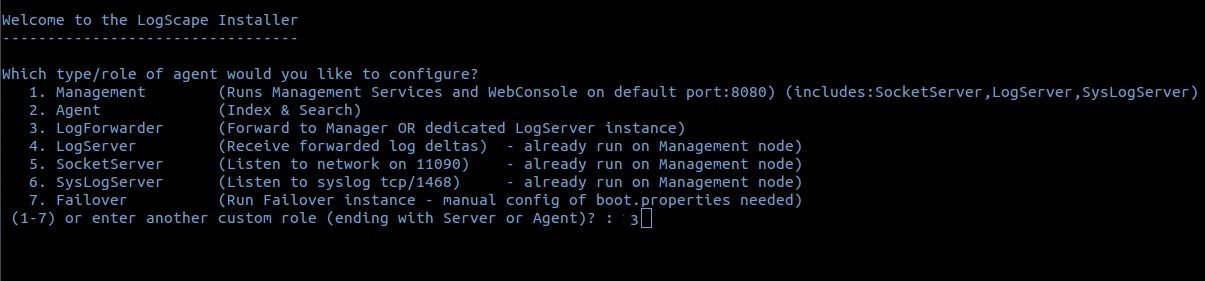
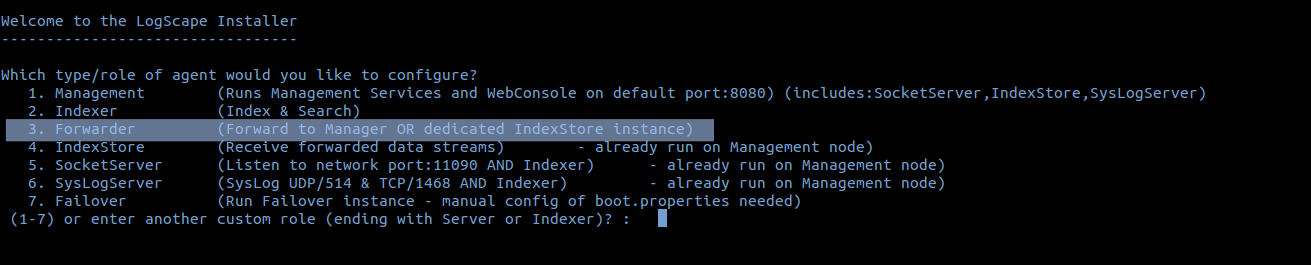
Minor changes

Changed region(s): [[0.0, 0.2415, 1.0, 0.8453], [0.0, 0.0302, 0.2456, 0.1509]]

diff --git a/install-forwarder.html b/install-forwarder.html
@@ -1,4 +1,4 @@
 <!DOCTYPE html><html lang="en"><head><title>	Logscape 2.0 	</title><link href="css/bootstrap.min.css" rel="stylesheet"><link href="css/style.css" rel="stylesheet"><script src="js/bootstrap.min.js"></script><script src="js/jquery.js"></script></head><body><div class="container">		<div class="navbar navbar-fixed-top"><div class="navbar-inner"><div class="nav-collapse collapse"><ul class="nav navbar-nav"><li class="active"> Main Support Site </li><li>Explore Logscape Apps </li><li> <a href="">Download </a></li></ul></div><h3>Logscape 2.0  </h3><a href="apps.html"> Applications   	|</a><a href="http://support.liquidlabs.co.uk"> Older Versions (1.3x)</a></div></div></div><div class="container"><p> </p><p> </p><br><br><br><p> </p><p> </p><div class="row"><div class="col-md-3"><p> 
 Overview </p><ul><li> <a href="index.html">Getting Started</a><ul><li><a href="searching-video.html">Quick Search Video</a></li><li> <a href="workspaces.html">Create a Workspace Video </a></li></ul></li><li> <a href="deploy.html">How to deploy Apps </a></li><li><a href="releasenotes.html">Release Notes </a></li></ul><p> 
 Installation Guide </p><ul><li>	<a href="install-prerequisites.html">Prerequisites</a></li><li> <a href="install-manager.html">Manager Installation</a></li><li> <a href="install-forwarder.html">Install a Forwarder</a></li><li> <a href="install-indexer.html">Install an Indexer		</a></li><li>	<a href="install-updating.html">Updating Logscape </a></li></ul><p>Common Deployment Scenarios</p><ul><li><a href="using-forwarders.html">Using Forwarders </a></li><li><a href="using-indexers.html">Using IndexStores </a></li></ul><p> <a href="apps.html">Logscape Apps</a></p><ul><li> <a href="https://github.com/logscape/windowsapp#windowsapp-10">WindowsApp</a></li><li> <a href="https://github.com/logscape/unixapp#unixapp-10">UnixApp</a></li><li> <a href="https://github.com/logscape/coherenceapp#oraclecoherenceapp-10">Oracle Coherence App</a></li><li> <a href="https://github.com/logscape/unixapp#unixapp-10">JavaApp</a></li><li> <a href="https://github.com/logscape/unixapp#unixapp-10">Syslog Devices </a></li></ul><p> 
-Contact</p><div><strong> <span>email: <a href="#">support@logscape.com</a></span></strong><br><strong><span>twitter: <a href="#">logscape@twitter.com </a></span></strong></div></div><div class="col-md-9"><h1>Install an Forwarder</h1><p><strong>Duration:  </strong>Just under 5 minutes </p><p><strong>Prerequisites:  </strong>Make sure that you have Oracle Java 7 and above and that Java is accessible from your  path</p><div class="alert alert-warning"> <p><A>Forwarder will stream its log data to the Manager or an IndexStore in realtime.  The Manager or IndexStore will index the data locally and prepare it for search and analysis. </A></p><span> <strong>Note: </strong> Do not use OpenJDK. There are known performance problems with this JVM and Logscape may not run as expected. </span></div><ol> <li> <p>	Download Logscape-2.0.zip and unzip </p></li><li> <p>	Navigate to your Logscape installation and inside the scripts folder, type:<div class="image"><img src="images/install_configure.png"></div></p></li><li> <p>	A prompt will appear to configure your installation. Choose option 3) for a Forwarde <div class="image"><img src="images/install_configure_forwarder.png"></div></p></li><li>	<p>	Next you will be asked for the address/hostname of your Manager.  A quick test is executed to check the connectivity between your Indexer and the Manager. <div class="image"><img src="images/configure-2.png"></div></p></li><li> <p>	Once the test is passed you can accept the default configuration for the other parameters by pressing enter. </p></li><li> <p>	Navigate back to the Logscape home directory and type the command below to start the Manager</p><code>logscape $> ./logscape.sh start</code></li></ol></div></div></div></body></html>
+Contact</p><div><strong> <span>email: <a href="#">support@logscape.com</a></span></strong><br><strong><span>twitter: <a href="#">logscape@twitter.com </a></span></strong></div></div><div class="col-md-9"><h1>Install an Forwarder</h1><p><strong>Duration:  </strong>Just under 5 minutes </p><p><strong>Prerequisites:  </strong>Make sure that you have Oracle Java 7 and above and that Java is accessible from your  path</p><div class="alert alert-warning"> <p><A>Forwarder will stream its log data to the Manager or an IndexStore in realtime.  The Manager or IndexStore will index the data locally and prepare it for search and analysis. </A></p><span> <strong>Note: </strong> Do not use OpenJDK. There are known performance problems with this JVM and Logscape may not run as expected. </span></div><ol> <li> <p>	Download Logscape-2.0.zip and unzip </p></li><li> <p>	Navigate to your Logscape installation and inside the scripts folder, type:<div class="image"><img src="images/install_configure.png"></div></p></li><li> <p>	A prompt will appear to configure your installation. Choose option 3) for a Forwarder <div class="image"><img src="images/install_configure_forwarder.png"></div></p></li><li>	<p>	Next you will be asked for the address/hostname of your Manager.  A quick test is executed to check the connectivity between your Indexer and the Manager. <div class="image"><img src="images/configure-2.png"></div></p></li><li> <p>	Once the test is passed you can accept the default configuration for the other parameters by pressing enter. </p></li><li> <p>	Navigate back to the Logscape home directory and type the command below to start the Manager</p><code>logscape $> ./logscape.sh start</code></li></ol></div></div></div></body></html>

diff --git a/install-indexer.html b/install-indexer.html
@@ -1,4 +1,4 @@
 <!DOCTYPE html><html lang="en"><head><title>	Logscape 2.0 	</title><link href="css/bootstrap.min.css" rel="stylesheet"><link href="css/style.css" rel="stylesheet"><script src="js/bootstrap.min.js"></script><script src="js/jquery.js"></script></head><body><div class="container">		<div class="navbar navbar-fixed-top"><div class="navbar-inner"><div class="nav-collapse collapse"><ul class="nav navbar-nav"><li class="active"> Main Support Site </li><li>Explore Logscape Apps </li><li> <a href="">Download </a></li></ul></div><h3>Logscape 2.0  </h3><a href="apps.html"> Applications   	|</a><a href="http://support.liquidlabs.co.uk"> Older Versions (1.3x)</a></div></div></div><div class="container"><p> </p><p> </p><br><br><br><p> </p><p> </p><div class="row"><div class="col-md-3"><p> 
 Overview </p><ul><li> <a href="index.html">Getting Started</a><ul><li><a href="searching-video.html">Quick Search Video</a></li><li> <a href="workspaces.html">Create a Workspace Video </a></li></ul></li><li> <a href="deploy.html">How to deploy Apps </a></li><li><a href="releasenotes.html">Release Notes </a></li></ul><p> 
 Installation Guide </p><ul><li>	<a href="install-prerequisites.html">Prerequisites</a></li><li> <a href="install-manager.html">Manager Installation</a></li><li> <a href="install-forwarder.html">Install a Forwarder</a></li><li> <a href="install-indexer.html">Install an Indexer		</a></li><li>	<a href="install-updating.html">Updating Logscape </a></li></ul><p>Common Deployment Scenarios</p><ul><li><a href="using-forwarders.html">Using Forwarders </a></li><li><a href="using-indexers.html">Using IndexStores </a></li></ul><p> <a href="apps.html">Logscape Apps</a></p><ul><li> <a href="https://github.com/logscape/windowsapp#windowsapp-10">WindowsApp</a></li><li> <a href="https://github.com/logscape/unixapp#unixapp-10">UnixApp</a></li><li> <a href="https://github.com/logscape/coherenceapp#oraclecoherenceapp-10">Oracle Coherence App</a></li><li> <a href="https://github.com/logscape/unixapp#unixapp-10">JavaApp</a></li><li> <a href="https://github.com/logscape/unixapp#unixapp-10">Syslog Devices </a></li></ul><p> 
-Contact</p><div><strong> <span>email: <a href="#">support@logscape.com</a></span></strong><br><strong><span>twitter: <a href="#">logscape@twitter.com </a></span></strong></div></div><div class="col-md-9"><h1>Install an Indexer</h1><p><strong>Duration:  </strong>Just under 5 minutes </p><p><strong>Prerequisites:  </strong>Make sure that you have Oracle Java 7 and above and that Java is accessible from your  path<p> <The>Indexer will index and files that it can access locally. Any changes made to the files is picked up immediately and made available for search and analysis.</The></p></p><div class="alert alert-warning"> <span> <strong>Note: </strong> Do not use OpenJDK. There are known performance problems with this JVM and Logscape may not run as expected. </span></div><ol> <li> <p>	Download Logscape-2.0.zip and unzip </p></li><li> <p>	Navigate to your Logscape installation and inside the scripts folder, type:<div class="image"><img src="images/install_configure.png"></div></p></li><li> <p>	A prompt will appear to configure your installation. Choose option 3) for a Forwarde <div class="image"><img src="images/install_configure_indexer.png"></div></p></li><li>	<p>	Next you will be asked for the address/hostname of your Manager.  A quick test is executed to check the connectivity between your Indexer and the Manager. <div class="image"><img src="images/configure-2.png"></div></p></li><li> <p>	Once the test is passed you can accept the default configuration for the other parameters by pressing enter. </p></li><li> <p>	Navigate back to the Logscape home directory and type the command below to start the Forwarder </p><code>logscape $> ./logscape.sh start</code></li></ol></div></div></div></body></html>
+Contact</p><div><strong> <span>email: <a href="#">support@logscape.com</a></span></strong><br><strong><span>twitter: <a href="#">logscape@twitter.com </a></span></strong></div></div><div class="col-md-9"><h1>Install an Indexer</h1><p><strong>Duration:  </strong>Just under 5 minutes </p><p><strong>Prerequisites:  </strong>Make sure that you have Oracle Java 7 and above and that Java is accessible from your  path<p> <The>Indexer will index and files that it can access locally. Any changes made to the files is picked up immediately and made available for search and analysis.</The></p></p><div class="alert alert-warning"> <span> <strong>Note: </strong> Do not use OpenJDK. There are known performance problems with this JVM and Logscape may not run as expected. </span></div><ol> <li> <p>	Download Logscape-2.0.zip and unzip </p></li><li> <p>	Navigate to your Logscape installation and inside the scripts folder, type:<div class="image"><img src="images/install_configure.png"></div></p></li><li> <p>	A prompt will appear to configure your installation. Choose option 2) for a Indexer<div class="image"><img src="images/install_configure_indexer.png"></div></p></li><li>	<p>	Next you will be asked for the address/hostname of your Manager.  A quick test is executed to check the connectivity between your Indexer and the Manager. <div class="image"><img src="images/configure-2.png"></div></p></li><li> <p>	Once the test is passed you can accept the default configuration for the other parameters by pressing enter. </p></li><li> <p>	Navigate back to the Logscape home directory and type the command below to start the Forwarder </p><code>logscape $> ./logscape.sh start</code></li></ol></div></div></div></body></html>

diff --git a/install-manager.html b/install-manager.html
@@ -2,4 +2,4 @@
 Overview </p><ul><li> <a href="index.html">Getting Started</a><ul><li><a href="searching-video.html">Quick Search Video</a></li><li> <a href="workspaces.html">Create a Workspace Video </a></li></ul></li><li> <a href="deploy.html">How to deploy Apps </a></li><li><a href="releasenotes.html">Release Notes </a></li></ul><p> 
 Installation Guide </p><ul><li>	<a href="install-prerequisites.html">Prerequisites</a></li><li> <a href="install-manager.html">Manager Installation</a></li><li> <a href="install-forwarder.html">Install a Forwarder</a></li><li> <a href="install-indexer.html">Install an Indexer		</a></li><li>	<a href="install-updating.html">Updating Logscape </a></li></ul><p>Common Deployment Scenarios</p><ul><li><a href="using-forwarders.html">Using Forwarders </a></li><li><a href="using-indexers.html">Using IndexStores </a></li></ul><p> <a href="apps.html">Logscape Apps</a></p><ul><li> <a href="https://github.com/logscape/windowsapp#windowsapp-10">WindowsApp</a></li><li> <a href="https://github.com/logscape/unixapp#unixapp-10">UnixApp</a></li><li> <a href="https://github.com/logscape/coherenceapp#oraclecoherenceapp-10">Oracle Coherence App</a></li><li> <a href="https://github.com/logscape/unixapp#unixapp-10">JavaApp</a></li><li> <a href="https://github.com/logscape/unixapp#unixapp-10">Syslog Devices </a></li></ul><p> 
 Contact</p><div><strong> <span>email: <a href="#">support@logscape.com</a></span></strong><br><strong><span>twitter: <a href="#">logscape@twitter.com </a></span></strong></div></div><div class="col-md-9"><h1>Install a Manager</h1><p><strong>Duration:  </strong>Just under 5 minutes </p><p><strong>Prerequisites:  </strong>Make sure that you have Oracle Java 7 and above and that Java is accessible from your  path</p><span>The manager is the main component of Logscape. It runs the searches, coordinates services and manages the Web Dashboard. </span><div class="alert alert-warning"> <span> <strong>Note: 
-Do not use OpenJDK. There are known performance problems with this JVM and Logscape may not run as expected. </strong></span></div><ol> <li> <p>	Download Logscape-2.0.zip and unzip </p></li><li> <p>	Navigate to your Logscape installation and inside the scripts folder, type:<div class="image"><img src="images/install_configure.png"></div></p></li><li> <p>	A prompt will appear to configure your installation. Choose option 3) for a Forwarder <div class="image"><img src="images/install_configure_manager.png"></div></p></li><li>	<p>	Next you will be asked for the address/hostname of your Manager.  A quick test is executed to check the connectivity between your Indexer and the Manager. <div class="image"><img src="images/configure-2.png"></div></p></li><li> <p>	Once the test has completed you can accept the default configuration for the other parameters by pressing enter. </p></li><li> <p>	Navigate back to the Logscape home directory and type the command below to start the Manager</p><code>logscape $> ./logscape.sh start</code></li></ol></div></div></div></body></html>
+Do not use OpenJDK. There are known performance problems with this JVM and Logscape may not run as expected. </strong></span></div><ol> <li> <p>	Download Logscape-2.0.zip and unzip </p></li><li> <p>	Navigate to your Logscape installation and inside the scripts folder, type:<div class="image"><img src="images/install_configure.png"></div></p></li><li> <p>	A prompt will appear to configure your installation. Choose option 1) for a Manager<div class="image"><img src="images/install_configure_manager.png"></div></p></li><li>	<p>	Next you will be asked for the address/hostname of your Manager.  A quick test is executed to check the connectivity between your host and the Manager. <div class="image"><img src="images/configure-2.png"></div></p></li><li> <p>	Once the test has completed you can accept the default configuration for the other parameters by pressing enter. </p></li><li> <p>	Navigate back to the Logscape home directory and type the command below to start the Manager</p><code>logscape $> ./logscape.sh start</code></li></ol></div></div></div></body></html>
